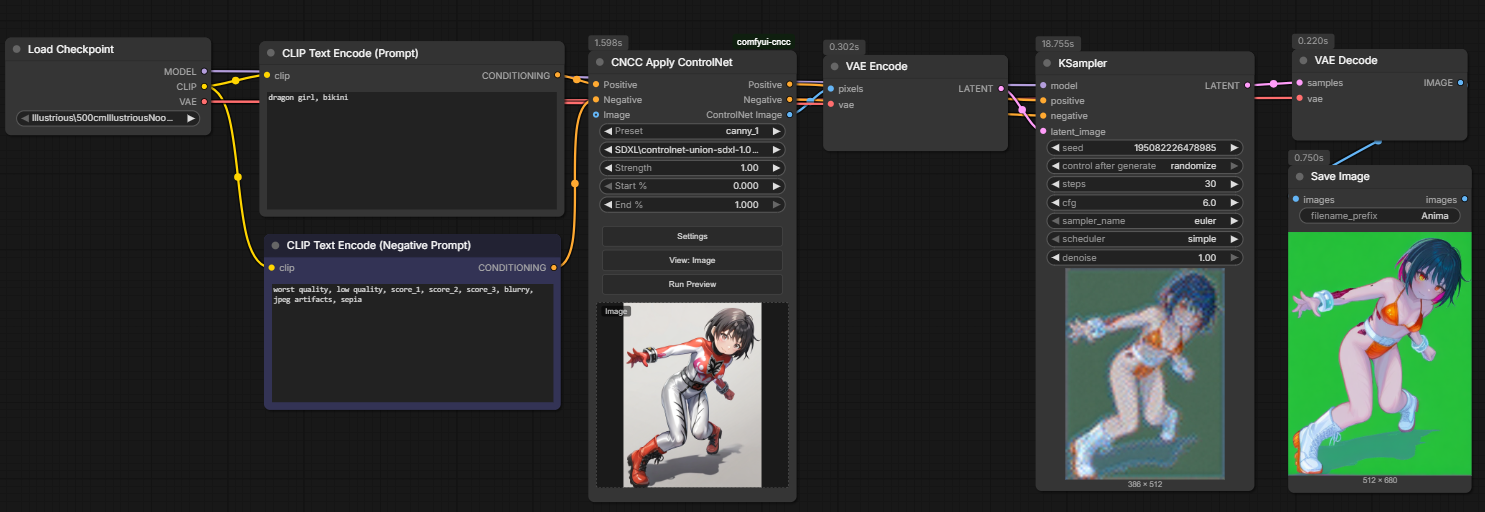
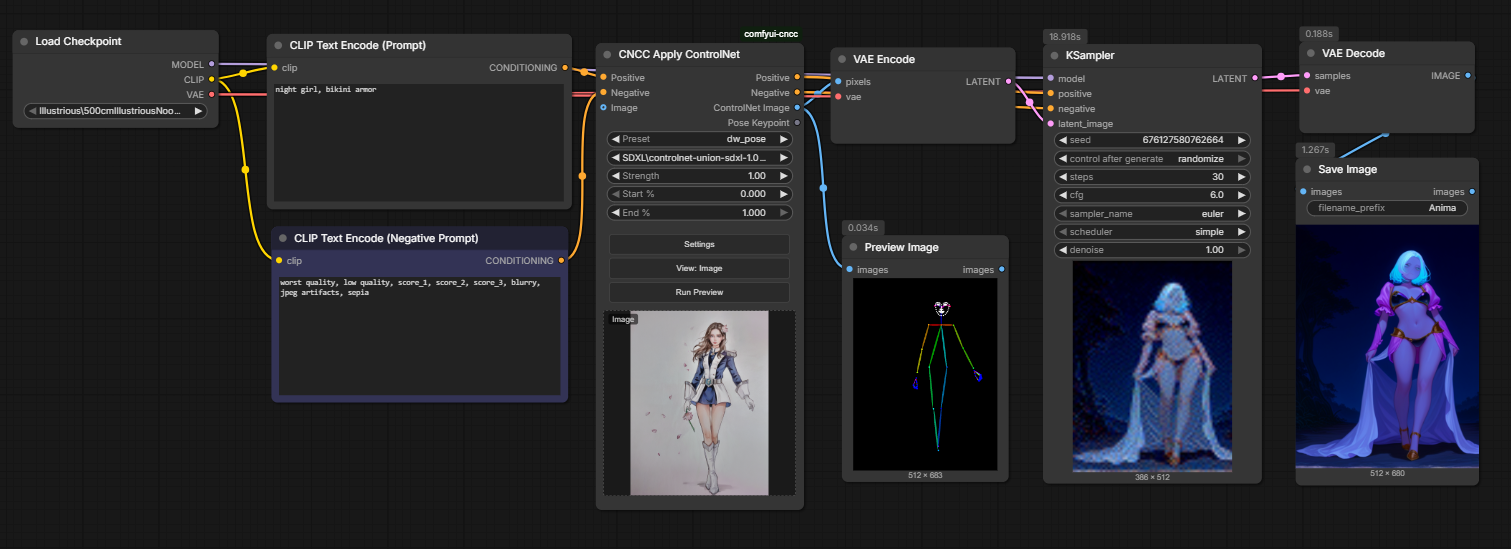
Add pose_keypoint output to CNCC nodes
CNCCNode and CNCCControlNetApplyNode now expose a pose_keypoint output
(POSE_KEYPOINT) when the selected preset's preprocessor produces one,
e.g. DWPose/OpenPose. Other preprocessors leave it as None. Updated
i18n node defs, README, and the overview banner accordingly.

diff --git a/py/nodes.py b/py/nodes.py
@@ -34,8 +34,8 @@ class CNCCNode:
 
     CATEGORY = "CNCC"
     FUNCTION = "execute"
-    RETURN_TYPES = ("IMAGE", "IMAGE")
-    RETURN_NAMES = ("original_image", "controlnet_image")
+    RETURN_TYPES = ("IMAGE", "IMAGE", "POSE_KEYPOINT")
+    RETURN_NAMES = ("original_image", "controlnet_image", "pose_keypoint")
 
     @classmethod
     def INPUT_TYPES(cls):
@@ -74,8 +74,8 @@ class CNCCNode:
         if preset is None:
             raise ValueError(f"Preset '{cn_name}' not found. Please recreate it in CNCC Settings.")
 
-        controlnet_image = preprocessor_registry.run_preset(preset, src)
-        return (src, controlnet_image)
+        controlnet_image, pose_keypoint = preprocessor_registry.run_preset(preset, src)
+        return (src, controlnet_image, pose_keypoint)
 
 
 class CNCCControlNetApplyNode:
@@ -83,8 +83,8 @@ class CNCCControlNetApplyNode:
 
     CATEGORY = "CNCC"
     FUNCTION = "execute"
-    RETURN_TYPES = ("CONDITIONING", "CONDITIONING", "IMAGE")
-    RETURN_NAMES = ("positive", "negative", "controlnet_image")
+    RETURN_TYPES = ("CONDITIONING", "CONDITIONING", "IMAGE", "POSE_KEYPOINT")
+    RETURN_NAMES = ("positive", "negative", "controlnet_image", "pose_keypoint")
     SEARCH_ALIASES = ["controlnet", "apply controlnet", "use controlnet", "control net"]
 
     @classmethod
@@ -155,10 +155,10 @@ class CNCCControlNetApplyNode:
                 "contain a valid ControlNet model."
             )
 
-        controlnet_image = preprocessor_registry.run_preset(preset, src)
+        controlnet_image, pose_keypoint = preprocessor_registry.run_preset(preset, src)
 
         if strength == 0:
-            return (positive, negative, controlnet_image)
+            return (positive, negative, controlnet_image, pose_keypoint)
 
         control_hint = controlnet_image.movedim(-1, 1)
         new_positive = _apply_control_net_to_conditioning(
@@ -168,4 +168,4 @@ class CNCCControlNetApplyNode:
             negative, control_net, control_hint, strength, start_percent, end_percent
         )
 
-        return (new_positive, new_negative, controlnet_image)
+        return (new_positive, new_negative, controlnet_image, pose_keypoint)

diff --git a/py/preprocessor_registry.py b/py/preprocessor_registry.py
@@ -63,6 +63,11 @@ def _with_prompt_context(func, prompt_id=None, node_id="CNCC"):
 
 
 def run_preprocessor(node_type: str, params: dict, image_tensor, prompt_id=None, node_id="CNCC"):
+    """プリプロセッサーを実行し、(image, pose_keypoint) を返す。
+
+    pose_keypoint は、そのプリプロセッサー（DWPose/OpenPose系など）が
+    POSE_KEYPOINT を出力する場合のみ値が入り、それ以外は None になる。
+    """
     cls = get_preprocessor_class(node_type)
     instance = cls()
     func_name = getattr(cls, "FUNCTION", "execute")
@@ -76,8 +81,11 @@ def run_preprocessor(node_type: str, params: dict, image_tensor, prompt_id=None,
 
     result = _with_prompt_context(_call, prompt_id=prompt_id, node_id=node_id)
     return_types = cls.RETURN_TYPES
-    image_index = return_types.index("IMAGE")
-    return result[image_index]
+    image = result[return_types.index("IMAGE")]
+    pose_keypoint = None
+    if "POSE_KEYPOINT" in return_types:
+        pose_keypoint = result[return_types.index("POSE_KEYPOINT")]
+    return image, pose_keypoint
 
 
 def run_preset(preset: dict, image_tensor, prompt_id=None, node_id="CNCC"):

diff --git a/py/api_routes.py b/py/api_routes.py
@@ -155,7 +155,7 @@ def setup_routes():
                 else:
                     return web.json_response({"error": "No image specified"}, status=400)
 
-                result_tensor = preprocessor_registry.run_preprocessor(cn_type, params, image_tensor)
+                result_tensor, _pose_keypoint = preprocessor_registry.run_preprocessor(cn_type, params, image_tensor)
                 preview_img = thumbnail.resize_for_preview(result_tensor, max_side=512)
                 b64 = thumbnail.pil_to_base64(preview_img, fmt="PNG")
                 return web.json_response({"image_base64": b64})

diff --git a/README.md b/README.md
@@ -42,7 +42,8 @@ No additional dependencies are required.
 Runs a saved preset's preprocessor only. Does not apply any ControlNet.
 
 - **Inputs**: `cn_name` (a saved preset name), `image` (IMAGE, optional), the node's own image-drop area (used only when `image` is not connected)
-- **Outputs**: `original_image`, `controlnet_image` (the preprocessor's output)
+- **Outputs**: `original_image`, `controlnet_image` (the preprocessor's output), `pose_keypoint`
+  (POSE_KEYPOINT data, only populated when the preset uses a pose preprocessor such as DWPose/OpenPose — `None` otherwise)
 
 ### CNCC Apply ControlNet (`CNCCControlNetApplyNode`)
 
@@ -53,7 +54,8 @@ running the preprocessor and loading/applying the ControlNet model into a single
   `control_net_name` (a combo of ControlNet model names from `models/controlnet/`),
   `strength`, `start_percent`, `end_percent`, `image` (IMAGE, optional),
   the node's own image-drop area (used only when `image` is not connected)
-- **Outputs**: `positive`, `negative` (CONDITIONING), `controlnet_image` (a preview of the preprocessed image)
+- **Outputs**: `positive`, `negative` (CONDITIONING), `controlnet_image` (a preview of the preprocessed image),
+  `pose_keypoint` (POSE_KEYPOINT data, only populated when the preset uses a pose preprocessor such as DWPose/OpenPose — `None` otherwise)
 - Supports chaining multiple ControlNets in series (each new application keeps the previous one instead of overwriting it)
 
 ## Sample workflow

diff --git a/README.zh.md b/README.zh.md
@@ -42,7 +42,8 @@
 仅运行已保存预设的预处理器，不进行ControlNet应用。
 
 - **输入**: `cn_name`（已保存的预设名称）、`image`（IMAGE，可选）、节点自身的图片拖放区域（仅在 `image` 未连接时使用）
-- **输出**: `original_image`（原图）、`controlnet_image`（预处理结果图）
+- **输出**: `original_image`（原图）、`controlnet_image`（预处理结果图）、`pose_keypoint`
+  （POSE_KEYPOINT数据，仅当预设使用DWPose/OpenPose等姿势类预处理器时才有值，否则为`None`）
 
 ### CNCC Apply ControlNet (`CNCCControlNetApplyNode`)
 
@@ -53,7 +54,8 @@
   `control_net_name`（从 `models/controlnet/` 中选择ControlNet模型名称的下拉框）、
   `strength`、`start_percent`、`end_percent`、`image`（IMAGE，可选）、
   节点自身的图片拖放区域（仅在 `image` 未连接时使用）
-- **输出**: `positive`、`negative`（CONDITIONING）、`controlnet_image`（预处理结果预览图）
+- **输出**: `positive`、`negative`（CONDITIONING）、`controlnet_image`（预处理结果预览图）、
+  `pose_keypoint`（POSE_KEYPOINT数据，仅当预设使用DWPose/OpenPose等姿势类预处理器时才有值，否则为`None`）
 - 支持多个ControlNet串联应用时的链式处理（叠加应用时保留前一级的应用结果，而非覆盖）
 
 ## 示例工作流
